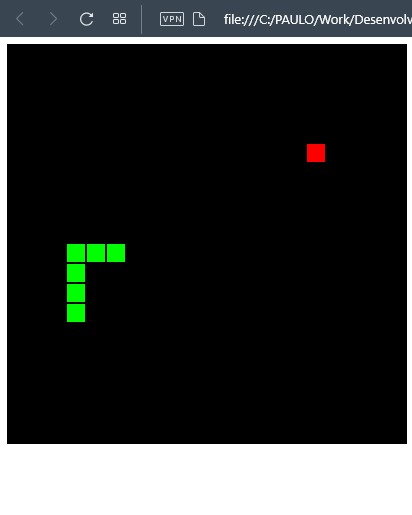
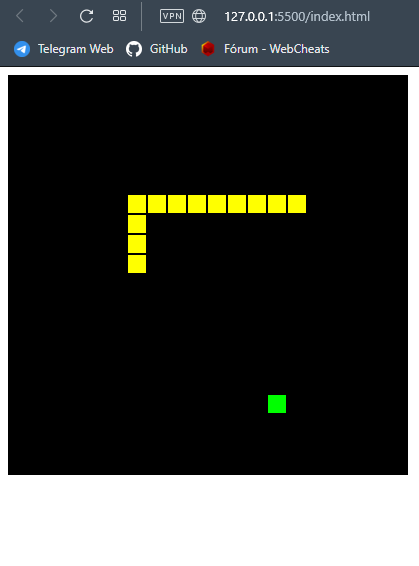
protótipo finalizado

diff --git a/javascript/file.js b/javascript/file.js
@@ -50,7 +50,7 @@ function desenharJogo(){
     ctx.fillRect(0, 0, canvas.width, canvas.height);
 
     //Estiliza a Cobra
-    ctx.fillStyle = "lime";
+    ctx.fillStyle = "yellow";
     for (i = 0; i < tamanhoCobra.length; i++){
         ctx.fillRect(
             tamanhoCobra[i].x * tamanhoCaminho,
@@ -63,7 +63,7 @@ function desenharJogo(){
         }
     }
     //Estiliza a Fruta
-    ctx.fillStyle = "red";
+    ctx.fillStyle = "lime";
     ctx.fillRect(
         frutaX * tamanhoCaminho, 
         frutaY * tamanhoCaminho, 
